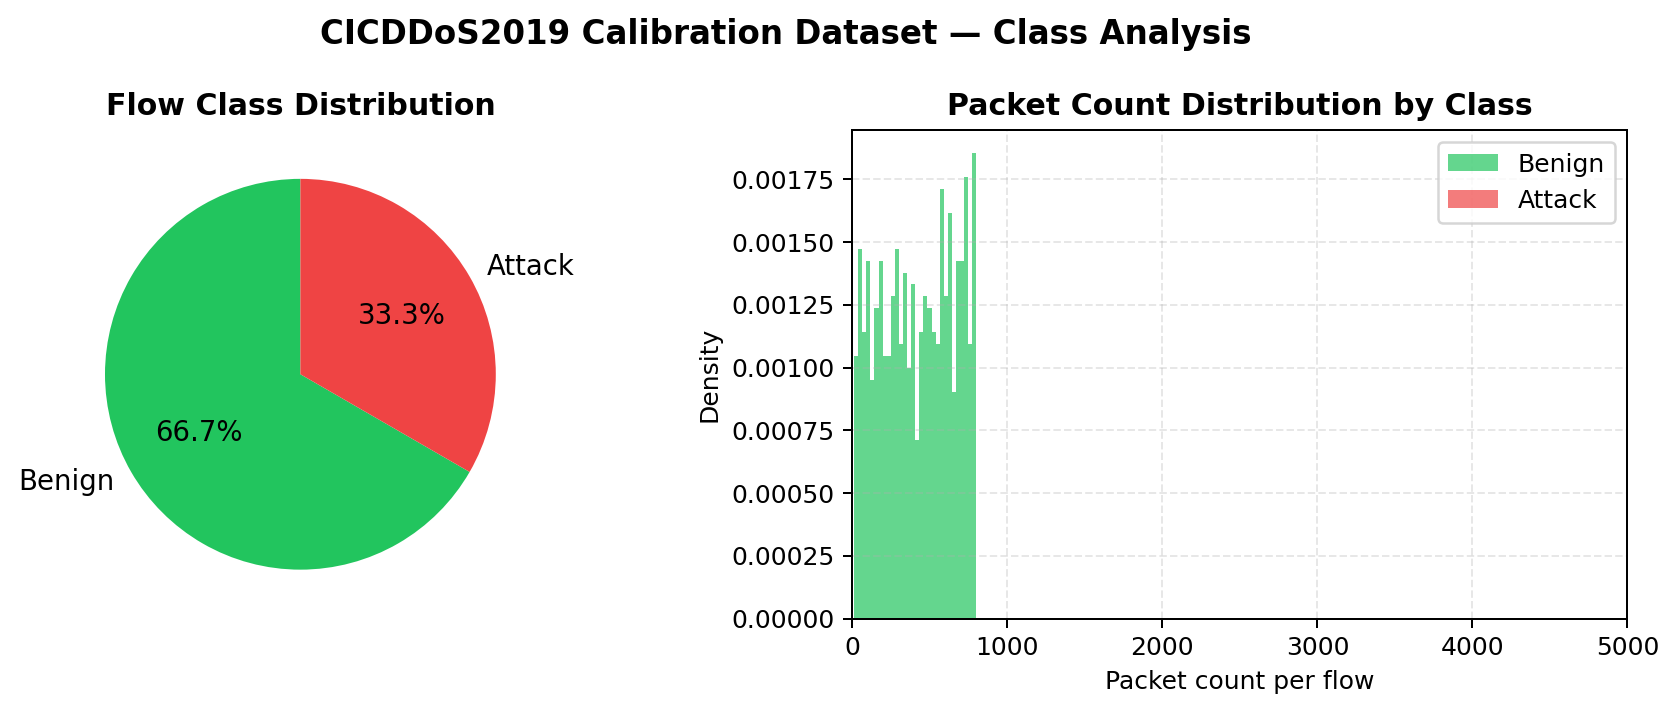
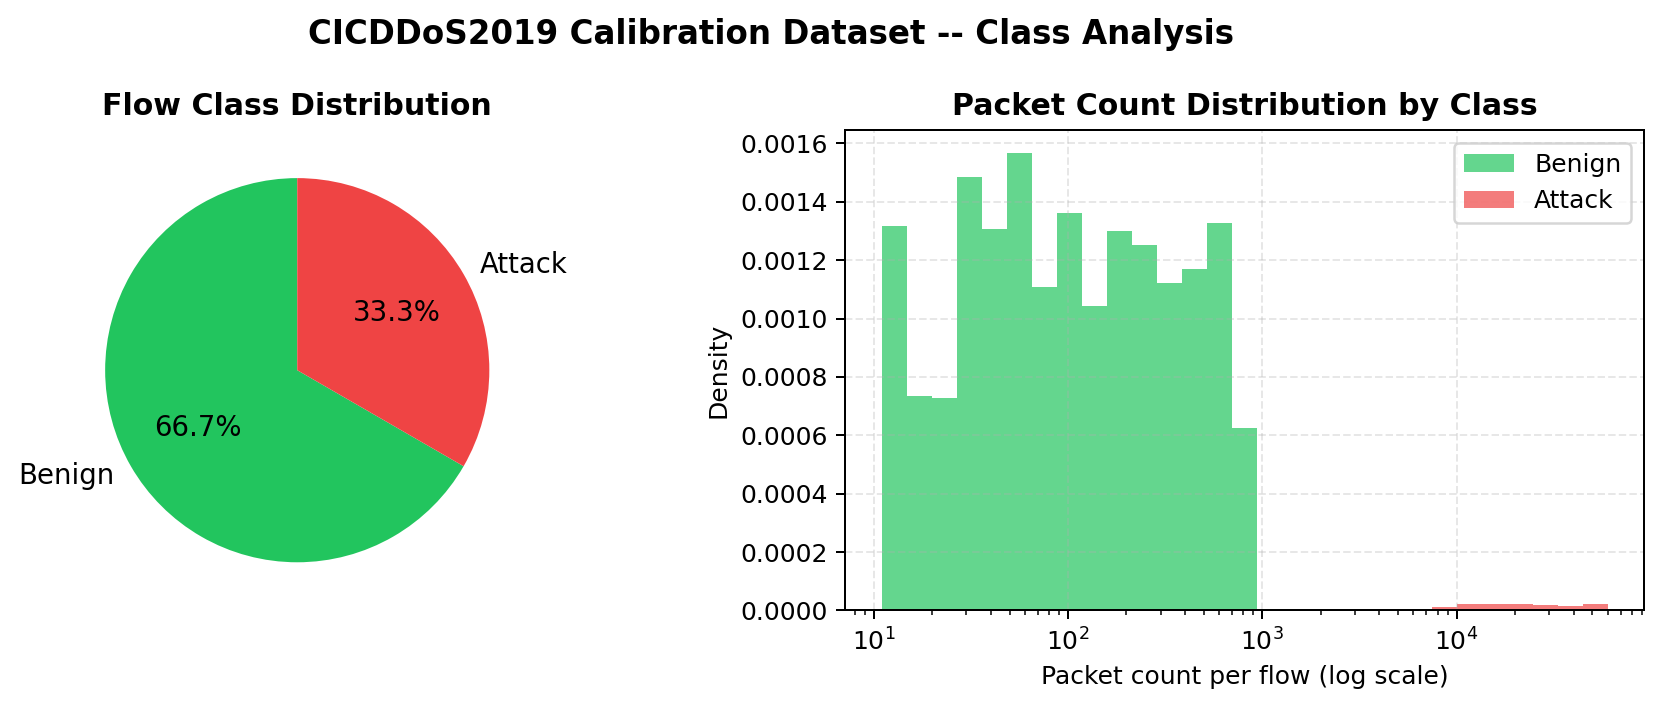
new

diff --git a/controller/ddos_controller.py b/controller/ddos_controller.py
@@ -8,7 +8,7 @@ import math, csv, os, collections
 from datetime import datetime
 import psutil
 
-POLL_INTERVAL  = 5
+POLL_INTERVAL  = 1
 ENTROPY_THRESH = 2.5
 PKT_THRESH     = 5000
 MIN_FLOWS      = 5
